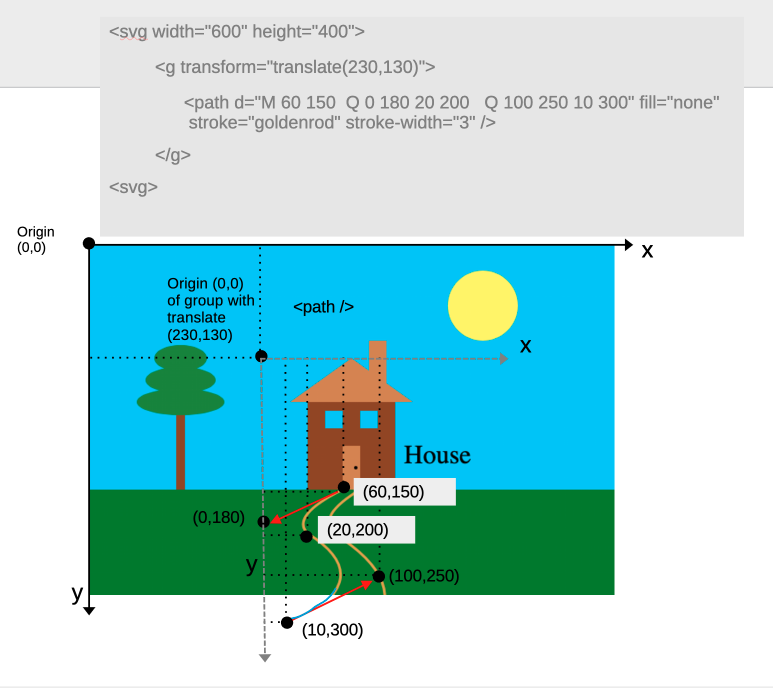
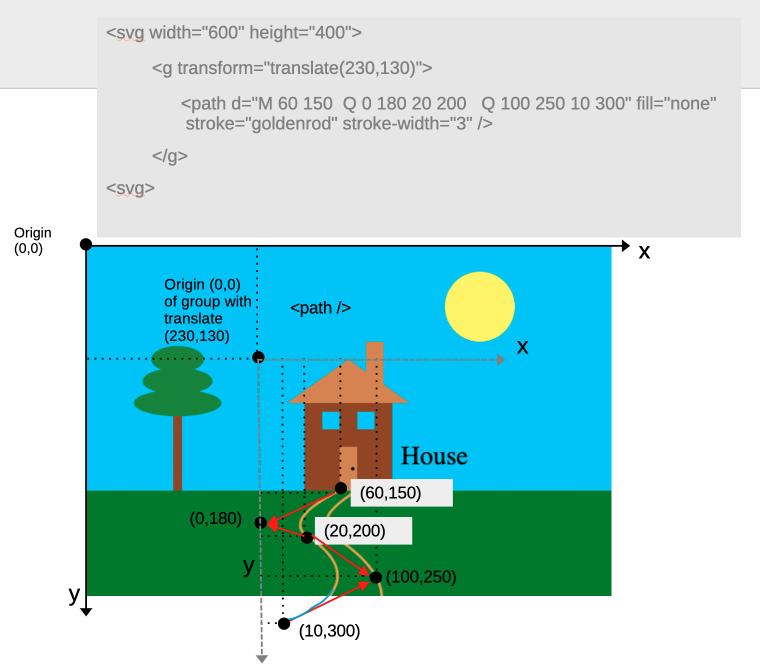
edit path coordinate image

diff --git a/Exercise 4/Exercise 4.2/README.md b/Exercise 4/Exercise 4.2/README.md
@@ -1,5 +1,4 @@
-
-### AI USAGE
+# AI USAGE
 
 Introduction: 
 Tool Description: Microsoft Copilot
@@ -180,31 +179,7 @@ MODIFICATIONS MADE: used solution 1 (Show / hide sections (simplest, no routing)
 
 
 
-Reflection: The use of AI helped to correct my previously wrong understanding of CSS and Javascript, and proved that my knowledge is rather weak. I need to spend more time learning.
+Reflection: My previous way of using inner HTML was destructive and not compatible with d3. I learnt a better way to create dynamic pages using javascript
 
-Acknowledgment: Microsoft Copilot was used in the completion of this assignment, mainly to (a) clarify assignment requirements, (b) debug code
+Acknowledgment: Microsoft Copilot was used in the completion of this assignment, to correct bad coding practices
 
----
-
-## Website Storytelling
-
-The website has been updated to communicate a **data-driven story** based on the TV energy consumption dataset.
-
-The website includes:
-
-- Visualisations that present key insights from the dataset
-- Text explanations that help readers understand the meaning of the visualisations
-- Context that connects the data to real-world implications
-
-The aim is to guide the viewer through the data in a way that is **informative, engaging, and easy to understand**.
-
-## other references
-Javascript course: https://www.linkedin.com/learning/javascript-essential-training/javascript-the-soil-from-which-the-modern-web-grows?resume=false
-W3Schools: https://www.w3schools.com/
-GeeksforGeeks: https://www.geeksforgeeks.org/
-Power consumption for different screen technologies:
-https://www.wiltronics.com.au/wiltronics-knowledge-base/lcd-vs-led-the-differences/
-https://bigledscreen.com.au/led-hire/the-difference-between-led-and-lcd/
-https://techreviewadvisor.com/oled-vs-lcd/
-Tv data set source:
-https://data.gov.au/data/dataset/energy-rating-for-household-appliances/resource/93a615e5-935e-4713-a4b0-379e3f6dedc9
